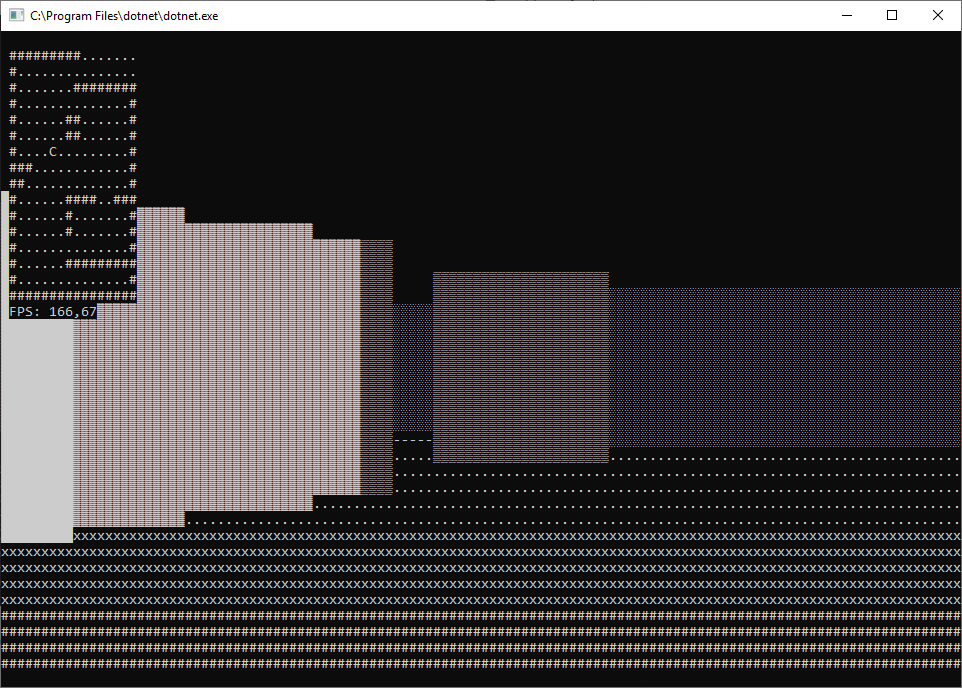
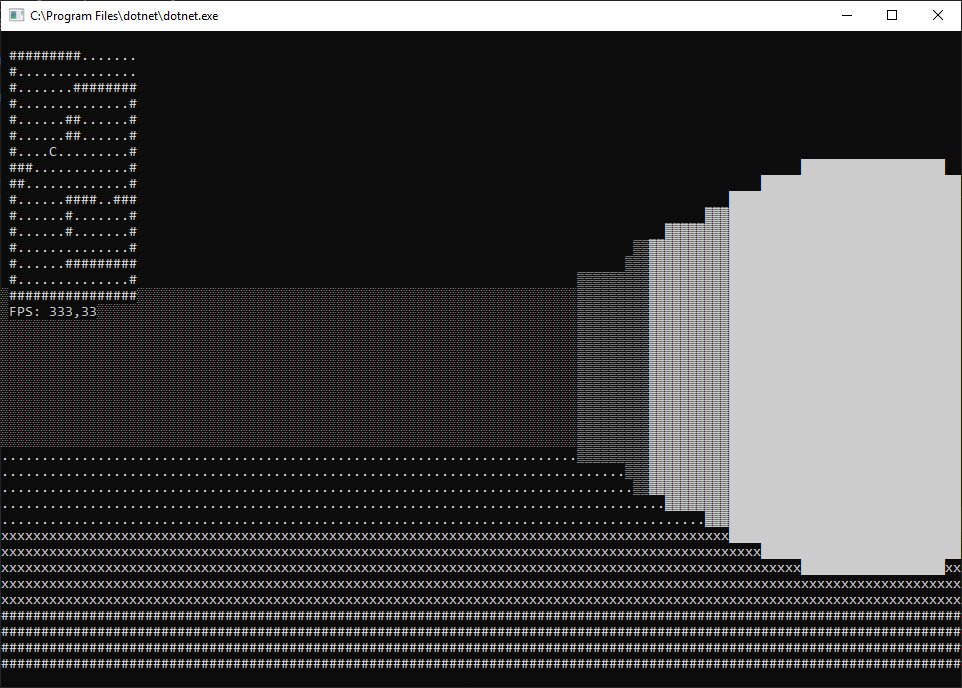
Found a way to leverage the console to render the correct characters and quickly Updated text and Screenshot

diff --git a/ConsoleRenderer/ConsoleRenderer/ConsoleScreens/NativeWindowsScreen.cs b/ConsoleRenderer/ConsoleRenderer/ConsoleScreens/NativeWindowsScreen.cs
@@ -1,6 +1,7 @@
 using System;
 using System.Reflection;
 using System.Runtime.InteropServices;
+using System.Text;
 
 namespace ConsoleRenderer.ConsoleScreens
 {
@@ -9,12 +10,12 @@ namespace ConsoleRenderer.ConsoleScreens
         const String KERNEL32 = "kernel32.dll";
 
         [DllImport(KERNEL32, SetLastError = true)]
-        static extern bool WriteConsole(
+        static extern bool WriteConsoleOutputCharacter(
             IntPtr hConsoleOutput,
-            byte[] lpCharacter,
-            int nLength,
-            out int lpumberOfCharsWritten,
-            IntPtr lpReserved);
+            byte[] lpCharacter, 
+            int nLength, 
+            COORD dwWriteCoord,
+            out int lpNumberOfCharsWritten);
 
         [StructLayout(LayoutKind.Sequential)]
         internal struct COORD
@@ -28,8 +29,8 @@ namespace ConsoleRenderer.ConsoleScreens
             internal short Y;
         }
 
-        private char[] _buffer;
-        private char[] _emptyBuffer;
+        private byte[] _buffer;
+        private byte[] _emptyBuffer;
         private int _screenWidth;
         private int _screenHeight;
         private readonly IntPtr _consoleHandle;
@@ -38,9 +39,8 @@ namespace ConsoleRenderer.ConsoleScreens
         {
             ScreenWidth = screenWidth;
             ScreenHeight = screenHeight;
-            _buffer = new char[ScreenWidth * ScreenHeight];
-            _emptyBuffer = new char[ScreenWidth * ScreenHeight];
-
+            _buffer = new byte[ScreenWidth * ScreenHeight];
+            _emptyBuffer = new byte[ScreenWidth * ScreenHeight];
 
             Console.CursorVisible = false;
             Console.SetWindowSize(ScreenWidth, ScreenHeight + 1);
@@ -64,31 +64,50 @@ namespace ConsoleRenderer.ConsoleScreens
 
         public void Draw(int x, int y, char character)
         {
-            _buffer[y * _screenWidth + x] = character;
+            switch (character)
+            {
+                default:
+                    _buffer[y * _screenWidth + x] = (byte)character;
+                    break;
+                case (char)0x2588:
+                    _buffer[y * _screenWidth + x] = 219;
+                    break;
+                case (char)0x2593:
+                    _buffer[y * _screenWidth + x] = 178;
+                    break;
+                case (char)0x2592:
+                    _buffer[y * _screenWidth + x] = 177;
+                    break;
+                case (char)0x2591:
+                    _buffer[y * _screenWidth + x] = 176;
+                    break;
+            }
         }
 
         public void Draw(int x, int y, char[] chars, int offset, int length)
         {
-            Array.Copy(chars, offset, _buffer, y * _screenWidth + x, length);
+            for (int i = 0; i < length; i ++)
+            {
+                _buffer[y * _screenWidth + x + i] = (byte)chars[i + offset];
+            }
         }
 
         public void Draw(int x, int y, string text)
         {
-            text.CopyTo(0, _buffer, y * _screenWidth + x, text.Length);
+            for (int i = 0; i < text.Length; i++)
+            {
+                _buffer[y * _screenWidth + x + i] = (byte)text[i];
+            }
         }
 
         public void RenderToConsole()
         {
             int writtenChars = 0;
-            // Finally figured out why my wall characters didn't get drawn the right way. Has to do with the Unicode
-            // characters that are not being properly marshaled between .NET and the Windows Native console.
-            // This is the main reason why it renders so slow using the normal Console. There goes my performance! :-(
-            var bufferBytes = Console.OutputEncoding.GetBytes(_buffer);
 
-            // Once the byte version of the text is obtained (in the correct format for unicode characters)
+            // Once the byte version of the text is obtained (in the correct format for Unicode characters)
             // we can pass it through as-is to the underlying Windows function.
             // There is a weird top-line flicker happening for some reason.
-            if (!WriteConsole(_consoleHandle, bufferBytes, _buffer.Length, out writtenChars, IntPtr.Zero))
+            if (!WriteConsoleOutputCharacter(_consoleHandle, _buffer, _buffer.Length, new COORD(0, 0), out writtenChars))
             {
                 var error = Marshal.GetLastWin32Error();
             }

diff --git a/README.md b/README.md
@@ -1,6 +1,7 @@
 # CommandLineFPS
 A Dot Net Core adaption of the Command Line FPS tutorial by OneLineCoder (https://github.com/OneLoneCoder/CommandLineFPS)
 
+#2019/03/21
 It started off as a curious experiment to see what it would be like to get it to work on .NET Core.
 I was very happy when I got to the point where I saw my maze being rendered, but the framerate was quite low
 in comparison to the C++ version. I thought that maybe it is because I'm not working directly with the
@@ -18,6 +19,13 @@ Also, there is a bit of a flicker happening as well. I've reverted to using my o
 This was an interesting experiment and something I quite enjoyed persuing, especially to take my mind off my normal programming
 routine. I felt almost like I was a university or high school student again. So big thanks to OneLoneCoder for the idea!
 Maybe I might tinker on it some more but I can't promise anything.
+
+#2019/03/22
+I think I have finally beat the system 😁. So instead of doing the normal `Encoding.GetBytes()` call, I've changed my Native Windows
+Console to use a byte array under the hood and where I've picked up that a character that is unicode gets written (that looks like my wall)
+I've secretly been changing it to the correct byte code. Also, I reverted to using the original Win32API call `WriteConsoleOutputCharacter`
+which is writing much faster to the console than the previous `WriteConsole` one (plus the flickering stopped). Now I can achieve over 300 fps
+at certain times.
 
 ![Screenshot](Screenshot.png)
 
